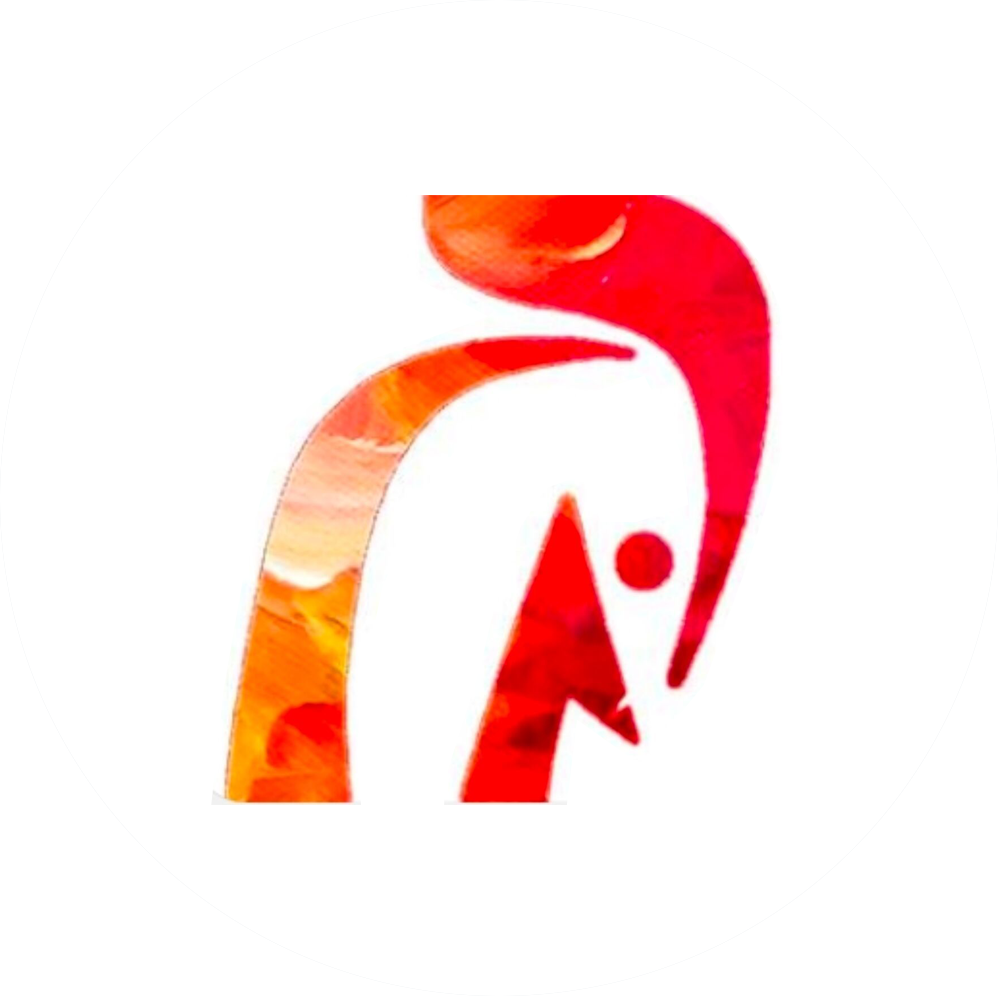
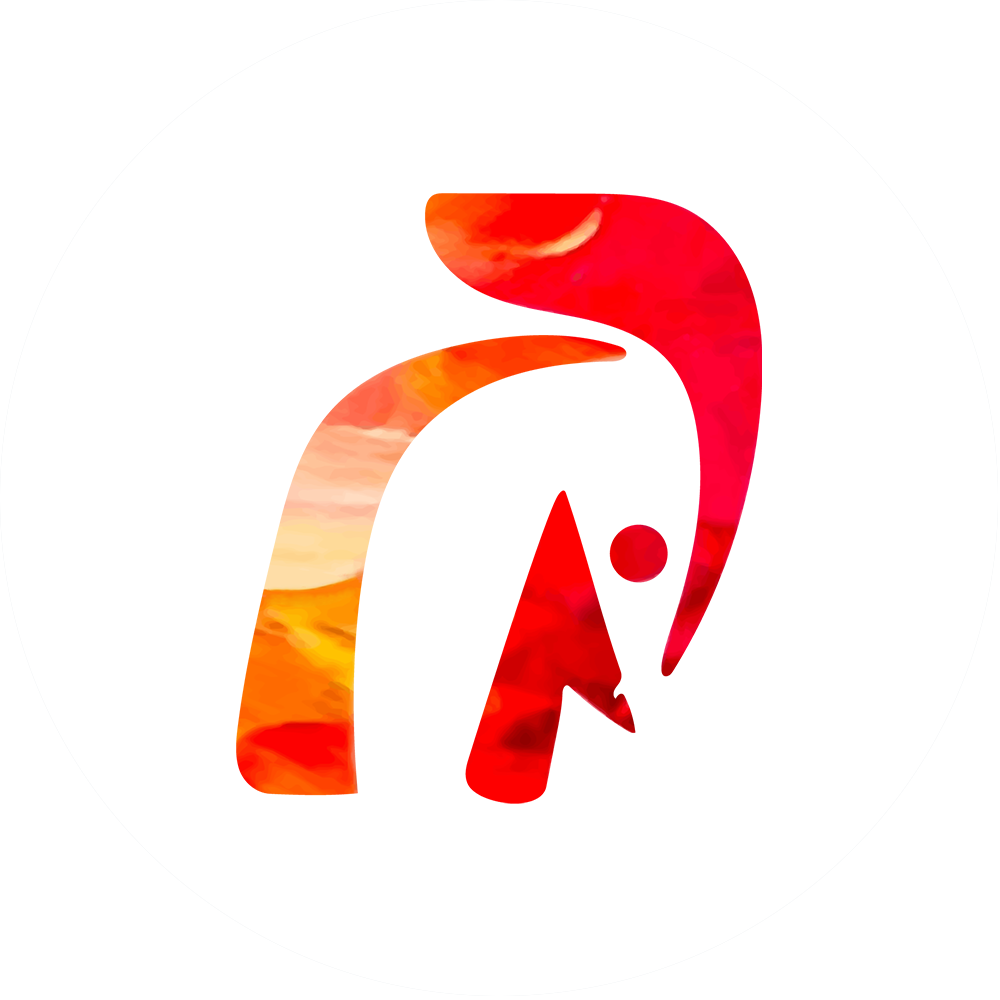
修改favicon 修改下载链接

Changed region(s): [[0.434, 0.217, 0.775, 0.806], [0.31, 0.186, 0.713, 0.527], [0.217, 0.434, 0.372, 0.806]]

diff --git a/mengxin/2025/index.html b/mengxin/2025/index.html
@@ -118,7 +118,7 @@
           <div>
             <p>这里是 2025 年东北大学先锋网络中心的招新面前题。 <span class="tag-plugin emoji"><img no-lazy="" class="inline lazy"
[1 lines of base64/hex data omitted]
-                  data-src="/mengxin/2025/favicon.ico" /></span></p>
+                  data-src="/mengxin/2025/icon.ico" /></span></p>
             <b>提示：手机端网页右下角可以展开目录</b>
             <br><br>
             <p>—— 秋风带来了技术的种子，先锋使之发芽。</p>
@@ -149,82 +149,82 @@
             <p>
               <strong>前排提醒：面前题真的内容很多很杂，或许也很难，但是我们不需要你全部要会，甚至不需要全部看完，只要能学会原本不会的内容，在面试里能够聊起来，能够比之前的自己多掌握一些知识，你就已经打败绝大多数人了。</strong>
               <s>这段帮我置顶加粗处理谢谢</s><br />
-              –酷爽清晨</p>
+              - 酷爽清晨</p>
             <br>
             <p><s>出的什么抽象题，把小登都吓跑了</s><br />
               面前题只是参考喵，不要因为面试题的抽象就失去信心喵<br />
               先锋不是一个古板的行政性学生组织，更像是一个在剑与精灵类冒险游戏的一个矮人酒馆，你会在酒馆里听到各种传奇故事，并且逐渐成为传奇本身。<br />
-              –Garbager</p>
+              - Garbager</p>
             <br>
             <p><s>你是一只卡拉比丘量产猫娘喵</s><br />
               思来想去没什么好写的，就在这祝各位开学愉快，面前题愉快吧。<br />
-              –某学院 某某某</p>
+              - 某学院 某某某</p>
             <br>
             <p><s>面前题做不出来没关系，我也不会</s><br />
               如果做不出来的话，也不要因为一时的迷茫而止步不前，如果有一颗永远进步的心，又有什么能阻挡你前进的步伐呢？<br />
               我在先锋等着你（/大冤种）<br />
-              –超级大冤种喵大帅</p>
+              - 超级大冤种喵大帅</p>
             <br>
             <p>
               网络部这么大的题量真的是很吓人喵(=¯ω¯=)挑一个或几个你感兴趣的方向好好钻研吧！先锋的大家期待能与各位一同在探索技术的道路上不断前行。借助面前题展现出你的热情与态度，这才是最重要的喵，爱技术，爱生活，爱先锋！<br />
               <s>对了先锋姬到底什么时候出道，两年前的大饼什么时候能啃上</s><br />
-              –不知名Reka
+              - 不知名Reka
             </p>
             <br>
             <p>面前题看起来很多很吓人，零基础的你可能一看都觉得哇，好难不会，都没关系的。 <s>(因为我也不会做啊)</s><br />
               我们只是想告诉你计算机的领域很广阔，有很多方向都可以去探索，可以先都大概了解一下，选择自己感兴趣的方向入手，一点点学，也是收获满满的体验<br />
               祝大家开学快乐，enjoy your college life！<br />
-              –不知道谁</p>
+              - 不知道谁</p>
             <br>
             <p><s>一只香香软软白白嫩嫩可可爱爱的先锋鸡</s><br />
               大家认真对待面试题，就一定会有或多或少的收获的，（实在没想法不会就跳过的说，可以跟我们说说你的做题想法ε(*･ω･)_/ﾟ:･☆<br />
               欢迎来到东北大学，尽情享受大学生活吧!<br />
-              –先锋一员</p>
+              - 先锋一员</p>
             <br>
             <p><s>坏了，有高考前刷题那味儿了，刚结束高考又要头皮发麻了｡(;´༎ຶД༎ຶ`)</s><br />
               面前题看起来又多又难，可能刚入学的你们会觉得，哇，好逆天！！<br />
               当然大家不必有太大压力，这只是面试之前的练习题，重在学习成长的过程，相信如果认真对待的话，一定会有所收获哦。(*´∀`)~♥<br />
               祝大家大学生活快乐！<br />
-              –**谷老农民</p>
+              - **谷老农民</p>
             <br>
             <p>重在过程，而不是结果；要有广度，更要有深度。希望在面前题中玩的开心，顺带有一些收获亦或是感悟就更好了。希望今年的面前题能成为撬开你某个领域的关键一棍🥳<br />
-              – tianshuo yuan（你猜夺舍版）</p>
+              - tianshuo yuan（你猜夺舍版）</p>
             <br>
             <p>上面那个是假的，被夺舍了，不过意思大概是对的，懒得改了 **(*´∀`)~**♥<br />
-              – 群炼金术士</p>
+              - 群炼金术士</p>
             <br>
             <p>前面忘了,中间忘了,后面忘了,总之 欢迎来到东北大学,期待在先锋的美好相遇.<br />
-              ——*请输入文本</p>
+              - *请输入文本</p>
             <br>
             <p>面前题是带大家了解先锋网络中心的工作内容，不必紧张，不必着急，也不必惊慌。莫听穿林打叶声，何妨吟啸且徐行。以平常心对待面前题，以平常心对待生活，期待你们与先锋同行。<br />
-              ——｜w｜</p>
+              - ｜w｜</p>
             <br>
             <p>
               故事仍未结束，夕阳的落幕，伴随的是新一轮朝阳的升起。悟已往之不谏，知来者之可追；问征夫以前路，恨晨光之熹微，你们确实是即将升起的烈阳，先锋的故事，需要你们继续书写。虽说功成在我，百岁千秋，勿望秉烛夜游，但今古诸事，激荡中流，宏图待看新秀。期待你们，祝福你们，祝愿你们赤诚的热爱之心，能够叩开先锋网络中心这扇门，也祝愿你们拥有一个光明的未来。<br />
-              ——云羽wingsly 2025.8.23，G3484</p>
+              - 云羽wingsly 2025.8.23，G3484</p>
             <br>
             <p>做面前题的意义，不在于为了进入先锋而做，而是为各位新同学们，提供一个一窥，学校内老师可能不讲，但实实在在有用的知识的计算机知识的途径，学习本身才是最大的收获！（经典红温时刻：缺失的计算机基础教育 ）<br />
-              –先锋最菜的就是我-abcd1234 😃</p>
+              - 先锋最菜的就是我-abcd1234 😃</p>
             <br>
             <p>坏了怎么都这么有文化<br />
               面前题有的的确很难很难很难而且后续可能用不到，但是重要的是这个使用搜索引擎和AI等工具学习的过程喵，注意是学习不是对着AI告诉你的读（手动红温），毕竟这事导员没教但是大学真的很常见哇咔哒。<br />
               最后欢迎来到你东，提前祝福你们能度过快乐的四年喵<br />
-              –楼上是假的我才是最菜的呜呜呜<br />
+              - 楼上是假的我才是最菜的呜呜呜<br />
               <strong>↑不准装菜😡</strong>
             </p>
             <br>
             <p>欢迎加入东北东学院/现视研（？）<br />
-              ——❤爱你们的子春春~❤</p>
+              - ❤爱你们的子春春~❤</p>
             <br>
             <p><s>硬件部面前题的简单小问题一天做一道喵</s><br />
               不论你们能否来到先锋，一定要保持热爱，热爱学习、生活、等等你一切感兴趣的事情。兴趣是最好的老师，热爱是动力的源泉。你所 _ _ 的，就是你的 _ _ （bushi）。<br />
-              – S9PR</p>
+              - S9PR</p>
             <br>
             <p>让先锋再次伟大。<br />
-              – 路过的骑士君</p>
+              - 路过的骑士君</p>
             <br>
             <p>面前题的意义不在题目本身，而是为了激发各位的学习兴趣。即使军训再艰苦、筛选再严格，无论结果如何，保持热爱，享受过程吧！<br />
-              —— 斩风千雪</p>
+              - 斩风千雪</p>
           </div>
           <div class="article-footer reveal fs14"></div>
         </article>

diff --git a/mengxin/2025/download.html b/mengxin/2025/download.html
@@ -8,7 +8,7 @@
 
   
     <!-- favicon -->
-    <link rel="shortcut icon" type="/favicon-pioneer.png" href="/favicon-pioneer.png">
+    <link rel="shortcut icon" type="/favicon.ico" href="/favicon.ico">
     <!-- animate.min - css -->
     <link rel="stylesheet" href="/css/animate.min.css">
     <!-- animate - css -->
@@ -141,7 +141,7 @@
                     </button>
                     <div class="collapse navbar-collapse" id="navbarNav">
                         <ul class="navbar-nav ml-auto">
-                            <li class="nav-item active mr-4">
+                            <li class="nav-item mr-4">
                                 <a class="nav-link  home" href="/index.html">
                                 主页
                                 </a>
@@ -160,7 +160,7 @@
                                    <a class="dropdown-item" href="/pcsetup/driver.html">维修网点查询</a>
                                 </div>
                             </li>-->
-                            <li class="nav-item mr-4 dropdown">
+                            <li class="nav-item active mr-4 dropdown">
                                 <a class="nav-link dropdown-toggle home" href="/mengxin/index.html">
                                 先锋招新
                                 </a>
@@ -228,7 +228,7 @@
                         MD5: FCD022DDAF8D0953607F0121E1A80691<br>
                     </div>
                     <a href="http://172.20.65.22:5555/p/files/yingjianbu/Windows%2011%2024H2.iso?sign=D5MiHjJnKSvF7-SKoQkr60ml7Wfi0e1qpk9vLt1KGgI=:0" class="normaltext">校内直链下载 <i class="fa fa-arrow-right"></i></a>
-                    <a href="https://www.123684.com/s/QDgDVv-KV1Bh" class="normaltext">网盘链接下载 <i class="fa fa-arrow-right"></i></a>
+                    <a href="https://pan.quark.cn/s/1d680302d8c3" class="normaltext">网盘链接下载 <i class="fa fa-arrow-right"></i></a>
                 </div>
                 <div>
                     <h6>虚拟机程序 - Vmware Workstation Windows</h6>

diff --git a/workinprogress.html b/workinprogress.html
@@ -8,7 +8,7 @@
 
   
     <!-- favicon -->
-    <link rel="shortcut icon" type="/favicon-pioneer.png" href="/favicon-pioneer.png">
+    <link rel="shortcut icon" type="/favicon.ico" href="/favicon.ico">
     <!-- animate.min - css -->
     <link rel="stylesheet" href="/css/animate.min.css">
     <!-- animate - css -->
@@ -141,7 +141,7 @@
                     </button>
                     <div class="collapse navbar-collapse" id="navbarNav">
                         <ul class="navbar-nav ml-auto">
-                            <li class="nav-item active mr-4">
+                            <li class="nav-item mr-4">
                                 <a class="nav-link  home" href="/index.html">
                                 主页
                                 </a>

diff --git a/restoration.html b/restoration.html
@@ -6,7 +6,7 @@
     <meta name="viewport" content="width=device-width, initial-scale=1, shrink-to-fit=no">
   
     <!-- favicon -->
-    <link rel="shortcut icon" type="/favicon-pioneer.png" href="/favicon-pioneer.png">
+    <link rel="shortcut icon" type="/favicon.ico" href="/favicon.ico">
 
     <link rel="stylesheet" href="/css/animate.min.css">
     <link rel="stylesheet" href="/css/animate.css">

diff --git a/template_htmls/redirect_template.html b/template_htmls/redirect_template.html
@@ -9,7 +9,7 @@
 
   
     <!-- favicon -->
-    <link rel="shortcut icon" type="/favicon-pioneer.png" href="/favicon-pioneer.png">
+    <link rel="shortcut icon" type="/favicon.ico" href="/favicon.ico">
     <!-- 引入的CSS文件保持不变 -->
     <link rel="stylesheet" href="/css/animate.min.css">
     <link rel="stylesheet" href="/css/animate.css">

diff --git a/alerts/notice.html b/alerts/notice.html
@@ -8,7 +8,7 @@
 
   
     <!-- favicon -->
-    <link rel="shortcut icon" type="/favicon-pioneer.png" href="/favicon-pioneer.png">
+    <link rel="shortcut icon" type="/favicon.ico" href="/favicon.ico">
     <!-- animate.min - css -->
     <link rel="stylesheet" href="/css/animate.min.css">
     <!-- animate - css -->

diff --git a/index.html b/index.html
@@ -8,7 +8,7 @@
 
   
     <!-- favicon -->
-    <link rel="shortcut icon" type="/favicon-pioneer.png" href="/favicon-pioneer.png">
+    <link rel="shortcut icon" type="/favicon.ico" href="/favicon.ico">
     <!-- animate.min - css -->
     <link rel="stylesheet" href="/css/animate.min.css">
     <!-- animate - css -->

diff --git a/index_un-finish.html b/index_un-finish.html
@@ -8,7 +8,7 @@
 
   
     <!-- favicon -->
-    <link rel="shortcut icon" type="/favicon-pioneer.png" href="/favicon-pioneer.png">
+    <link rel="shortcut icon" type="/favicon.ico" href="/favicon.ico">
     <!-- animate.min - css -->
     <link rel="stylesheet" href="/css/animate.min.css">
     <!-- animate - css -->

diff --git a/pcsetup/normalsoftware.html b/pcsetup/normalsoftware.html
@@ -8,7 +8,7 @@
 
   
     <!-- favicon -->
-    <link rel="shortcut icon" type="/favicon-pioneer.png" href="/favicon-pioneer.png">
+    <link rel="shortcut icon" type="/favicon.ico" href="/favicon.ico">
     <!-- animate.min - css -->
     <link rel="stylesheet" href="/css/animate.min.css">
     <!-- animate - css -->

diff --git a/template_htmls/about.html b/template_htmls/about.html
@@ -8,7 +8,7 @@
 
   
     <!-- favicon -->
-    <link rel="shortcut icon" type="/favicon-pioneer.png" href="/favicon-pioneer.png">
+    <link rel="shortcut icon" type="/favicon.ico" href="/favicon.ico">
     <!-- animate.min - css -->
     <link rel="stylesheet" href="/css/animate.min.css">
     <!-- animate - css -->

diff --git a/template_htmls/blog.html b/template_htmls/blog.html
@@ -8,7 +8,7 @@
 
   
     <!-- favicon -->
-    <link rel="shortcut icon" type="/favicon-pioneer.png" href="/favicon-pioneer.png">
+    <link rel="shortcut icon" type="/favicon.ico" href="/favicon.ico">
     <!-- animate.min - css -->
     <link rel="stylesheet" href="/css/animate.min.css">
     <!-- animate - css -->

diff --git a/template_htmls/blog_details.html b/template_htmls/blog_details.html
@@ -8,7 +8,7 @@
 
   
     <!-- favicon -->
-    <link rel="shortcut icon" type="/favicon-pioneer.png" href="/favicon-pioneer.png">
+    <link rel="shortcut icon" type="/favicon.ico" href="/favicon.ico">
     <!-- animate.min - css -->
     <link rel="stylesheet" href="/css/animate.min.css">
     <!-- animate - css -->
